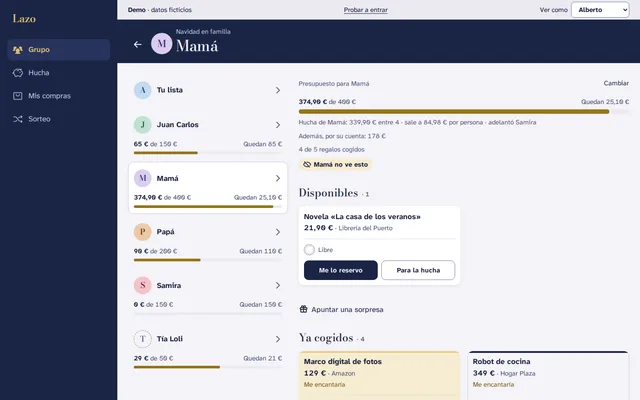
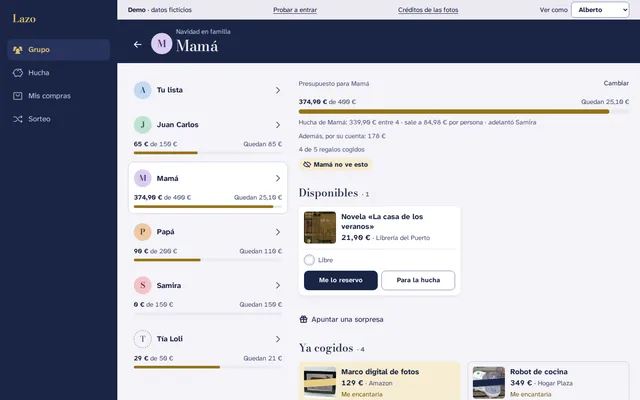
Lazo v0.3.0: captura con fotos y descripción al día (v1.2.1)

diff --git a/site/index.html b/site/index.html
@@ -48,7 +48,7 @@
       </div></div>
       <div class="project-grid">
         <!-- tarjetas:inicio · generado por scripts/generar-tarjetas.mjs desde proyectos.json: no lo edites a mano -->
-        <article class="project-card" data-category="Familia"><img src="img/proyectos/lazo.webp" width="640" height="400" loading="lazy" alt="Captura de Lazo: la lista de Mamá vista por otro miembro, con el presupuesto, «Mamá no ve esto» y los regalos libres o ya cogidos"><div class="card-body"><span class="tag">Familia</span><h3>Lazo</h3><p class="tagline">Listas de regalos en familia, sin repetidos ni spoilers.</p><p>Cada uno apunta lo que quiere (de Amazon, de cualquier tienda o de un Excel) y los demás lo reservan o lo compran; nadie ve lo de su propia lista, ni siquiera por la API. Hucha común con ajuste de cuentas, regalos a medias, amigo invisible y día de la entrega. Web (PWA) y Android, autoalojado con PocketBase e IA gratuita opcional.</p><ul class="stack" aria-label="Tecnologías"><li>React</li><li>TypeScript</li><li>PWA</li><li>Android (Capacitor)</li><li>PocketBase</li><li>IA</li></ul><div class="card-links"><a href="https://bertmarti.github.io/lazo/" target="_blank" rel="noopener noreferrer">Abrir la web <span aria-hidden="true">↗</span></a><a href="https://github.com/BertMarti/lazo/releases/latest" target="_blank" rel="noopener noreferrer">App Android <span aria-hidden="true">↓</span></a><a href="https://github.com/BertMarti/lazo" target="_blank" rel="noopener noreferrer">Ver el código <span aria-hidden="true">↗</span></a></div></div></article>
+        <article class="project-card" data-category="Familia"><img src="img/proyectos/lazo.webp" width="640" height="400" loading="lazy" alt="Captura de Lazo: la lista de Mamá vista por otro miembro, con el presupuesto, «Mamá no ve esto» y los regalos con sus fotos, libres o ya cogidos"><div class="card-body"><span class="tag">Familia</span><h3>Lazo</h3><p class="tagline">Listas de regalos en familia, sin repetidos ni spoilers.</p><p>Cada uno apunta lo que quiere (de Amazon, de cualquier tienda o de un Excel) y los demás lo reservan o lo compran; nadie ve lo de su propia lista, ni siquiera por la API. Hucha común con ajuste de cuentas, regalos a medias, amigo invisible y día de la entrega. Web (PWA) y Android, autoalojado con PocketBase e IA opcional (Ollama en casa).</p><ul class="stack" aria-label="Tecnologías"><li>React</li><li>TypeScript</li><li>PWA</li><li>Android (Capacitor)</li><li>PocketBase</li><li>IA</li></ul><div class="card-links"><a href="https://bertmarti.github.io/lazo/" target="_blank" rel="noopener noreferrer">Abrir la web <span aria-hidden="true">↗</span></a><a href="https://github.com/BertMarti/lazo/releases/latest" target="_blank" rel="noopener noreferrer">App Android <span aria-hidden="true">↓</span></a><a href="https://github.com/BertMarti/lazo" target="_blank" rel="noopener noreferrer">Ver el código <span aria-hidden="true">↗</span></a></div></div></article>
         <article class="project-card" data-category="Día a día"><img src="img/proyectos/fresquito.webp" width="640" height="400" loading="lazy" alt="Captura de Fresquito: inventario de la nevera ordenado por lo que caduca antes, en azul y verde"><div class="card-body"><span class="tag">Día a día</span><h3>Fresquito</h3><p class="tagline">Lo que hay en tu nevera, antes de que caduque.</p><p>Haz una foto a la nevera, la despensa o el ticket y la IA apunta qué tienes, te avisa de lo que caduca y te propone recetas según tus preferencias (fitness, vegana, picante…); lo que falta pasa a tu lista de la compra. Web (PWA) y Android, con modelos de IA gratuitos por defecto.</p><ul class="stack" aria-label="Tecnologías"><li>React</li><li>TypeScript</li><li>PWA</li><li>Android (Capacitor)</li><li>IA</li></ul><div class="card-links"><a href="https://bertmarti.github.io/fresquito-demo/" target="_blank" rel="noopener noreferrer">Probar la demo <span aria-hidden="true">↗</span></a><span class="no-web">Código privado</span></div></div></article>
         <article class="project-card" data-category="Día a día"><img src="img/proyectos/gestorin.webp" width="640" height="400" loading="lazy" alt="Captura de Gestorín: inicio con los plazos que vencen pronto y los apartados de tus papeles"><div class="card-body"><span class="tag">Día a día</span><h3>Gestorín</h3><p class="tagline">Tu gestor de bolsillo.</p><p>Te explica cartas, multas y notificaciones en lenguaje llano, te avisa de los plazos (con calendario fiscal y widget en Android) y ordena tus papeles en Identidad, Vehículo, Hogar, Salud y Hacienda. Windows y Android, con IA local (Ollama), modelos gratuitos o sin IA.</p><ul class="stack" aria-label="Tecnologías"><li>Tauri</li><li>Rust</li><li>React</li><li>TypeScript</li><li>Ollama</li></ul><div class="card-links"><a href="https://bertmarti.github.io/gestorin-demo/" target="_blank" rel="noopener noreferrer">Probar la demo <span aria-hidden="true">↗</span></a><span class="no-web">Código privado</span></div></div></article>
         <article class="project-card" data-category="Casa"><img src="img/proyectos/aria.webp" width="640" height="400" loading="lazy" alt="Captura de ARIA, asistente de IA para el hogar"><div class="card-body"><span class="tag">Casa</span><h3>ARIA</h3><p class="tagline">Tu casa, con voz propia.</p><p>Asistente de IA autoalojado que gestiona las apps de tu casa: chat y voz, Telegram, rutinas y control parental. Gratis, en una Raspberry Pi o un PC.</p><ul class="stack" aria-label="Tecnologías"><li>Python</li><li>FastAPI</li><li>Ollama</li><li>Docker</li><li>Telegram</li></ul><div class="card-links"><a href="https://bertmarti.github.io/ARIA/" target="_blank" rel="noopener noreferrer">Abrir la web <span aria-hidden="true">↗</span></a><a href="https://github.com/BertMarti/ARIA" target="_blank" rel="noopener noreferrer">Ver el código <span aria-hidden="true">↗</span></a></div></div></article>
@@ -69,6 +69,6 @@
     <section class="commitling wrap" aria-labelledby="commitling-title"><div><p class="eyebrow">UN PROYECTO QUE CRECE</p><h2 id="commitling-title">Mi commitling</h2><p>Crece con mis commits y se actualiza cada día.</p><a class="text-link" href="https://bertmarti.github.io/commitling/" target="_blank" rel="noopener noreferrer">Conoce a la mascota <span aria-hidden="true">↗</span></a></div><a href="https://bertmarti.github.io/commitling/" target="_blank" rel="noopener noreferrer"><picture><source id="commitling-oscuro" srcset="https://raw.githubusercontent.com/BertMarti/BertMarti/main/commitling-dark.svg" media="(prefers-color-scheme: dark)"><img src="https://raw.githubusercontent.com/BertMarti/BertMarti/main/commitling.svg" width="480" height="200" loading="lazy" alt="Commitling, mascota pixel-art que crece con los commits"></picture></a></section>
     <section class="contact wrap" aria-labelledby="contact-title"><p class="eyebrow">HABLEMOS</p><h2 id="contact-title">Contacto</h2><p>Si quieres construir algo útil, puedes encontrarme aquí:</p><div class="contact-links"><a href="https://www.linkedin.com/in/alberto-martinez-moreno/" target="_blank" rel="noopener noreferrer">LinkedIn <span aria-hidden="true">↗</span></a><a href="https://github.com/BertMarti" target="_blank" rel="noopener noreferrer">GitHub <span aria-hidden="true">↗</span></a></div></section>
   </main>
-  <footer class="site-footer"><div class="wrap"><span>Hecho a mano, sin dependencias</span><span class="dot">·</span><a href="https://github.com/BertMarti/BertMarti" target="_blank" rel="noopener noreferrer">Código en GitHub</a><span class="dot">·</span><a href="https://github.com/BertMarti/BertMarti/blob/main/CHANGELOG.md" target="_blank" rel="noopener noreferrer">v1.2.0</a></div></footer>
+  <footer class="site-footer"><div class="wrap"><span>Hecho a mano, sin dependencias</span><span class="dot">·</span><a href="https://github.com/BertMarti/BertMarti" target="_blank" rel="noopener noreferrer">Código en GitHub</a><span class="dot">·</span><a href="https://github.com/BertMarti/BertMarti/blob/main/CHANGELOG.md" target="_blank" rel="noopener noreferrer">v1.2.1</a></div></footer>
 </body>
 </html>

diff --git a/README.md b/README.md
@@ -44,7 +44,7 @@ Arriba, lo más nuevo: dos apps con IA que ya puedes probar en su demo (de momen
     <td width="33%" valign="top">
       <a href="https://bertmarti.github.io/lazo/"><img src="./site/img/proyectos/lazo.webp" alt="Web de Lazo" width="100%"></a>
       <h3>🎀 <a href="https://github.com/BertMarti/lazo">Lazo</a></h3>
-      <p><strong>Listas de regalos en familia, sin repetidos ni spoilers.</strong><br>Cada uno apunta lo que quiere (de Amazon, de cualquier tienda o de un Excel) y los demás lo reservan o lo compran; nadie ve lo de su propia lista, ni siquiera por la API. Hucha común con ajuste de cuentas, regalos a medias, amigo invisible y día de la entrega. Web (PWA) y Android, autoalojado con PocketBase e IA gratuita opcional.</p>
+      <p><strong>Listas de regalos en familia, sin repetidos ni spoilers.</strong><br>Cada uno apunta lo que quiere (de Amazon, de cualquier tienda o de un Excel) y los demás lo reservan o lo compran; nadie ve lo de su propia lista, ni siquiera por la API. Hucha común con ajuste de cuentas, regalos a medias, amigo invisible y día de la entrega. Web (PWA) y Android, autoalojado con PocketBase e IA opcional (Ollama en casa).</p>
       <p><sub>React · TypeScript · PWA · Android (Capacitor) · PocketBase · IA</sub></p>
       <a href="https://bertmarti.github.io/lazo/"><img src="https://img.shields.io/badge/WEB-7C3AED?style=flat-square&logo=googlechrome&logoColor=white" alt="Web de Lazo"></a>
       <a href="https://github.com/BertMarti/lazo/releases/latest"><img src="https://img.shields.io/badge/ANDROID-3DDC84?style=flat-square&logo=android&logoColor=white" alt="App de Android de Lazo"></a>

diff --git a/CHANGELOG.md b/CHANGELOG.md
@@ -3,6 +3,12 @@
 Todas las versiones del perfil y del portafolio (https://bertmarti.github.io/BertMarti/).
 El formato sigue [Keep a Changelog](https://keepachangelog.com/es-ES/1.1.0/) y las versiones, [SemVer](https://semver.org/lang/es/).
 
+## [1.2.1] - 2026-11-11
+
+### Cambiado
+- **Lazo** pasa a v0.3.0: captura nueva con fotos de regalos de verdad y descripción al día (la IA es opcional y, para el uso diario, en casa con Ollama).
+- Versión del pie del portafolio: v1.2.1.
+
 ## [1.2.0] - 2026-11-11
 
 ### Añadido
